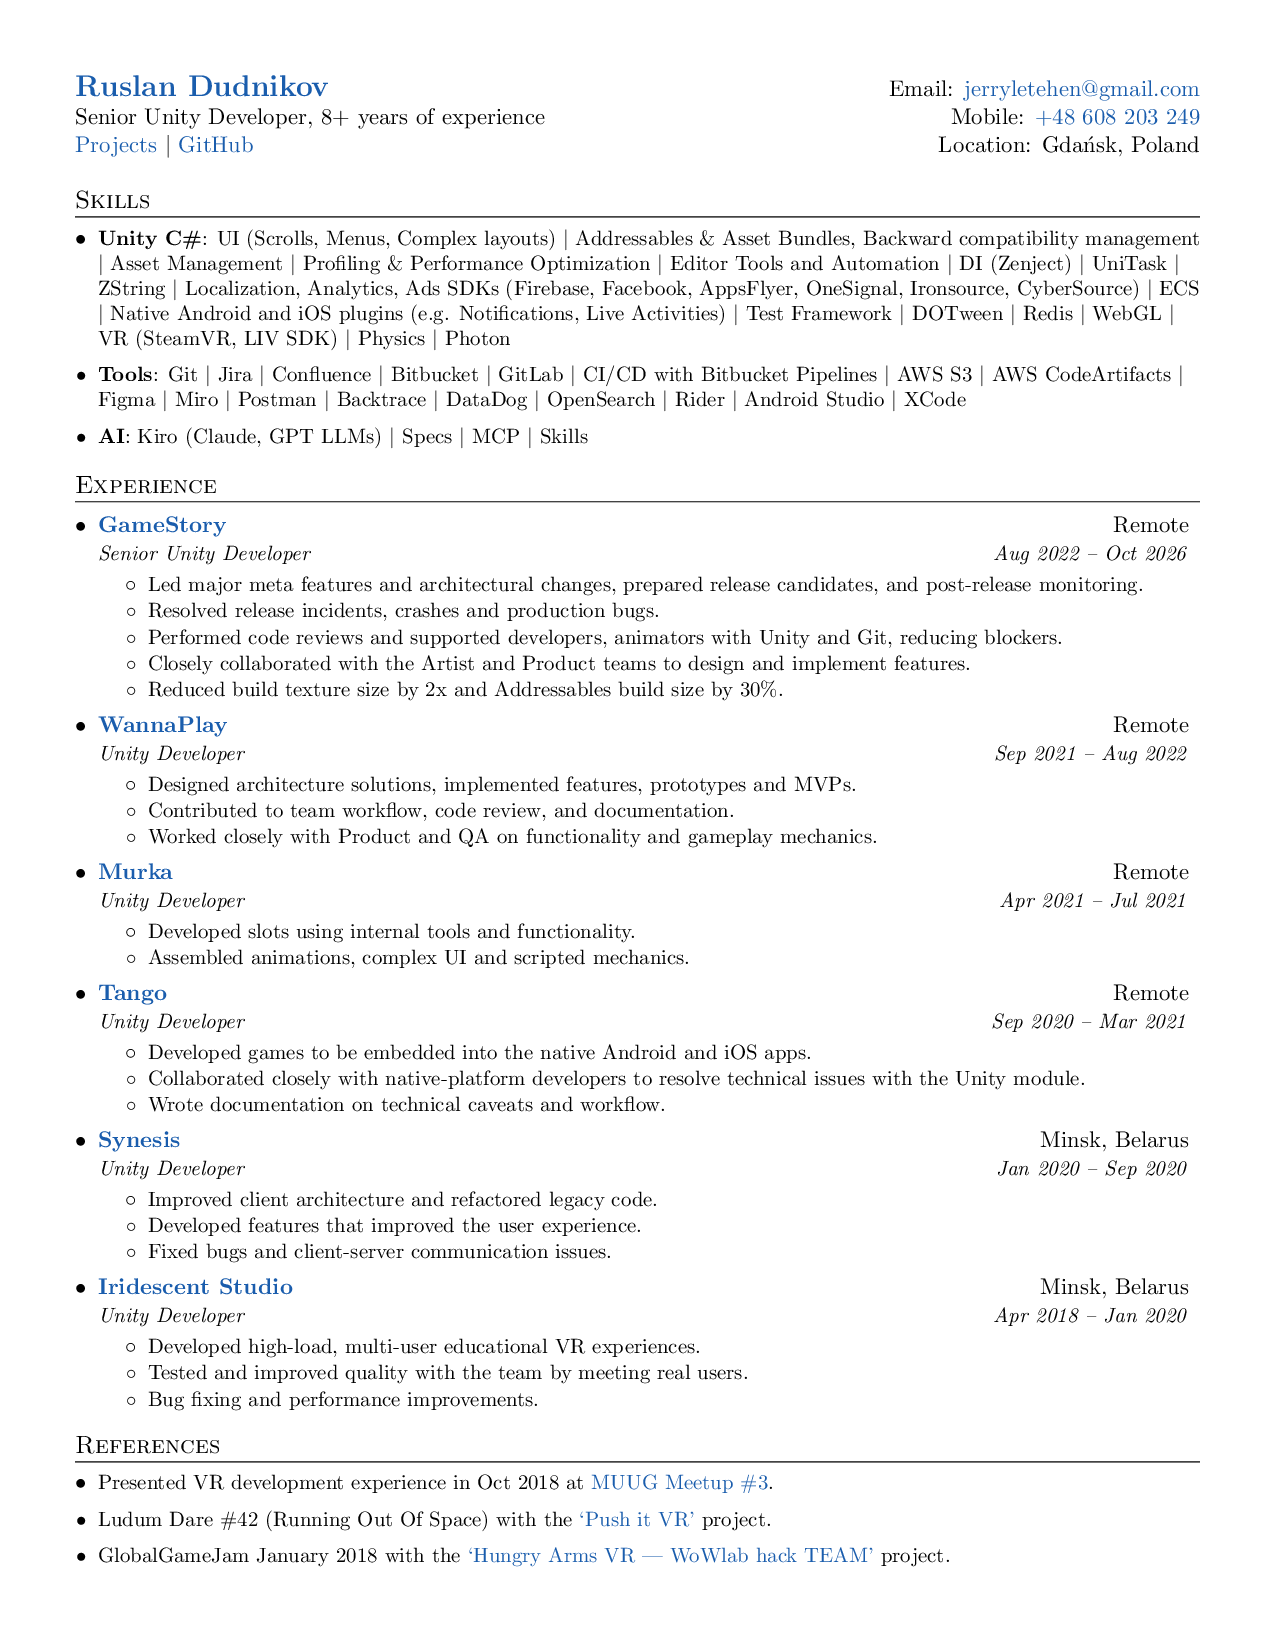
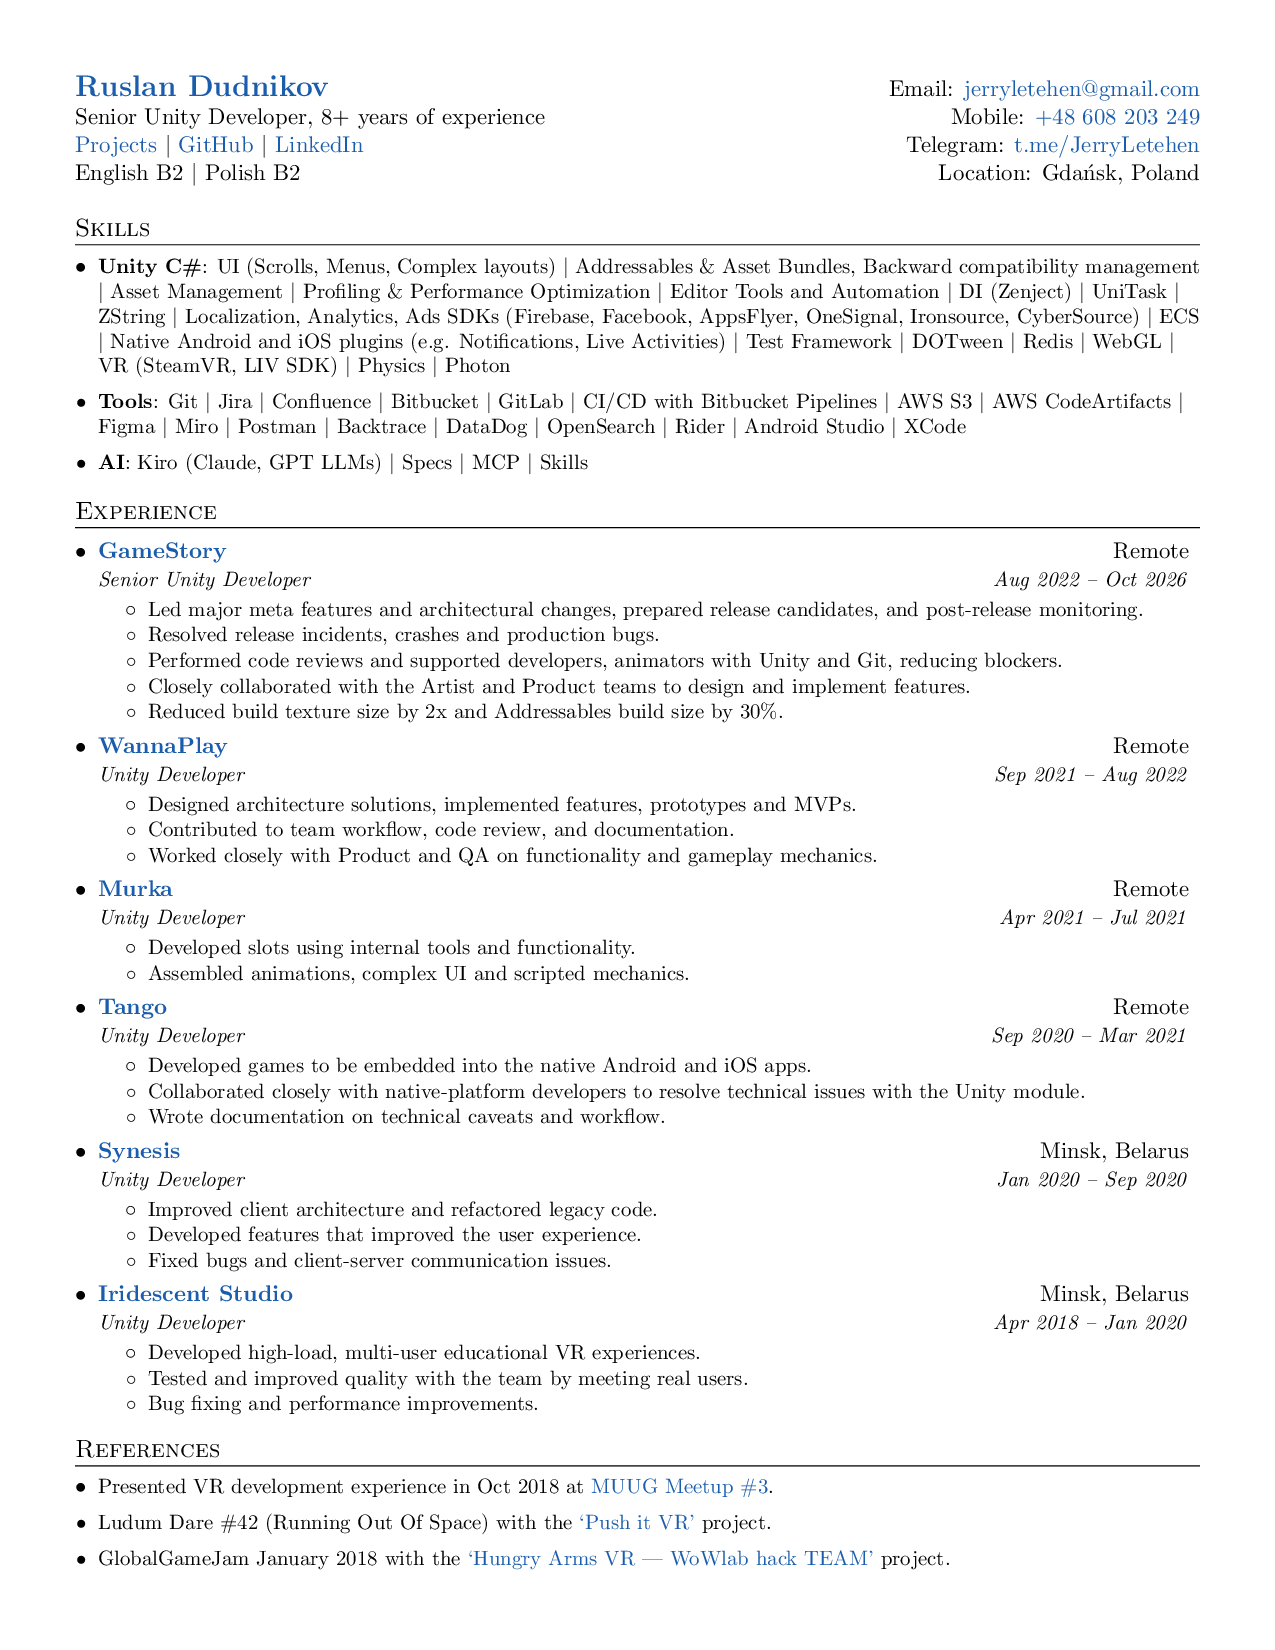
Add LinkedIn and Telegram links, languages line; set Polish to B2

diff --git a/ruslan_dudnikov_resume.tex b/ruslan_dudnikov_resume.tex
@@ -101,7 +101,8 @@
 \begin{tabular*}{\textwidth}{l@{\extracolsep{\fill}}r}
   \textbf{\href{https://www.linkedin.com/in/jerryletehen/?locale=en-US}{\Large Ruslan Dudnikov}} & Email: \href{mailto:jerryletehen@gmail.com}{jerryletehen@gmail.com}\\
   Senior Unity Developer, 8+ years of experience & Mobile: \href{tel:+48608203249}{+48 608 203 249} \\
-  \href{https://github.com/JerryLetehen/ruslan-dudnikov-resume/blob/main/ruslan_dudnikov_projects.pdf}{Projects} $|$ \href{https://github.com/JerryLetehen}{GitHub} & Location: Gda\'nsk, Poland \\
+  \href{https://github.com/JerryLetehen/ruslan-dudnikov-resume/blob/main/ruslan_dudnikov_projects.pdf}{Projects} $|$ \href{https://github.com/JerryLetehen}{GitHub} $|$ \href{https://www.linkedin.com/in/jerryletehen/?locale=en-US}{LinkedIn} & Telegram: \href{https://t.me/JerryLetehen}{t.me/JerryLetehen} \\
+  English B2 $|$ Polish B2 & Location: Gda\'nsk, Poland \\
 \end{tabular*}
 
 

diff --git a/ruslan_dudnikov_projects.tex b/ruslan_dudnikov_projects.tex
@@ -89,7 +89,7 @@
 \section*{General Information}
 \textbf{Languages:} \\
 \hspace*{1.4em} English -- B2 (reading/writing/speaking) \\
-\hspace*{1.4em} Polish -- B1 (reading/writing/speaking) \\
+\hspace*{1.4em} Polish -- B2 (reading/writing/speaking) \\
 \hspace*{1.4em} Russian -- Native \\
 \textbf{Email:} \href{mailto:jerryletehen@gmail.com}{jerryletehen@gmail.com} \\
 \textbf{Phone:} +48 608 203 249 \\
